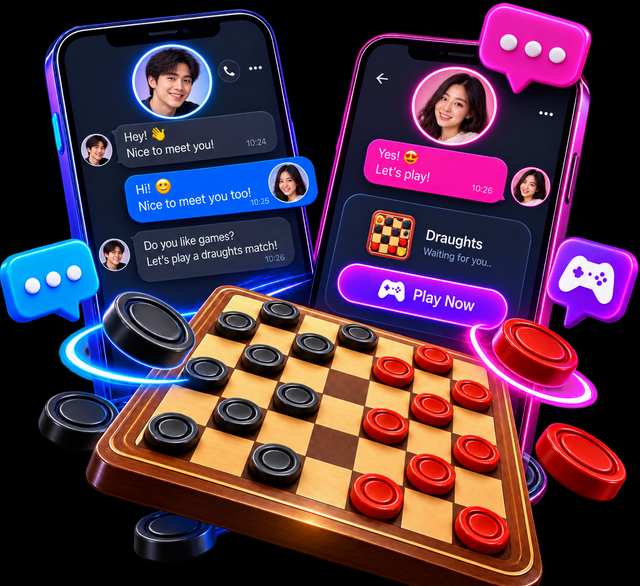
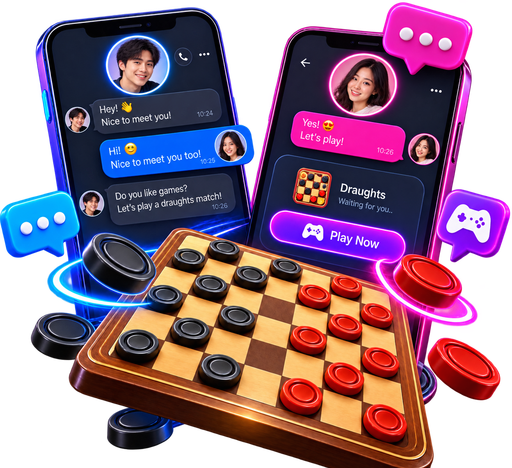
Hero: new copy, and the artwork cycles between two renders
COPY. "Love meet brings social connections and games together in one place",
then the four verbs — Meet people. Chat. Play. Connect — set on their own
line rather than buried in the sentence. They are the whole product in four
words and inside a paragraph they read as filler.

CAROUSEL. The headline now claims two things at once, and neither render says
both: one is a room full of people playing, the other is a game running
inside a chat. So the hero shows both, five seconds apart.

A crossfade, not a slide. These are transparent PNGs with irregular edges,
and sliding one past the other exposes the page behind in a hard-edged
rectangle that the artwork does not have.

Three things it is careful about:

  It stops when the tab is hidden, rather than waking the CPU to swap images
  nobody is looking at.

  It does not auto-advance under prefers-reduced-motion. An unrequested
  change every few seconds is exactly what that setting exists to prevent;
  the dots still work, so nothing is lost.

  A slide whose file is missing is dropped rather than shown broken, and with
  only one left the dots and the timer do not appear at all.

The draughts render was replaced with the new casting and promoted from the
graphics grid to the second hero slide — it is not shown twice on one page.

diff --git a/src/components/HeroCarousel.tsx b/src/components/HeroCarousel.tsx
@@ -1,0 +1,129 @@
+import { useEffect, useRef, useState } from 'react'
+import { AnimatePresence, motion } from 'framer-motion'
+
+/**
+ * The hero artwork, cycling.
+ *
+ * Two renders that say different halves of the same thing — a room full of
+ * people playing, and a game running inside a chat. Neither one alone carries
+ * "social connections and games together in one place", which is what the
+ * headline now claims, so the hero shows both.
+ *
+ * A crossfade rather than a slide: these are transparent PNGs with irregular
+ * edges, and sliding one out past the other reveals the page behind them in a
+ * hard-edged rectangle. Fading has no edge to betray.
+ *
+ * Three things it is careful about:
+ *
+ *   It stops when the tab is hidden. An interval left running in a background
+ *   tab wakes the CPU to swap images nobody is looking at.
+ *
+ *   It respects prefers-reduced-motion by not auto-advancing at all. For
+ *   somebody with vestibular sensitivity an unrequested change every few
+ *   seconds is exactly the thing that setting exists to stop; the dots still
+ *   work, so no content is lost.
+ *
+ *   A slide whose file is missing is dropped rather than shown as a broken
+ *   image, and if only one survives the dots and the timer do not appear.
+ */
+type Slide = { src: string; alt: string }
+
+const SLIDES: Slide[] = [
+  {
+    src: '/shots/together.png',
+    alt: 'Friends chatting and playing a game together on Love meet',
+  },
+  {
+    src: '/shots/draughts.png',
+    alt: 'A game of draughts running inside a Love meet chat',
+  },
+]
+
+const INTERVAL_MS = 5000
+
+export default function HeroCarousel() {
+  const [ok, setOk] = useState<boolean[]>(() => SLIDES.map(() => true))
+  const [i, setI] = useState(0)
+  const [paused, setPaused] = useState(false)
+  const reduced = useRef(false)
+
+  useEffect(() => {
+    reduced.current =
+      typeof window !== 'undefined' &&
+      window.matchMedia?.('(prefers-reduced-motion: reduce)').matches === true
+  }, [])
+
+  const live = SLIDES.map((s, n) => ({ ...s, n })).filter((s) => ok[s.n])
+
+  useEffect(() => {
+    if (live.length < 2 || paused || reduced.current) return
+    const id = window.setInterval(() => {
+      if (document.visibilityState === 'hidden') return
+      setI((n) => (n + 1) % live.length)
+    }, INTERVAL_MS)
+    return () => window.clearInterval(id)
+  }, [live.length, paused])
+
+  // A slide failing to load can leave the index past the end of the list.
+  const index = live.length ? i % live.length : 0
+  const current = live[index]
+  if (!current) return null
+
+  return (
+    <div
+      className="relative aspect-[3/2] w-full max-w-[560px] mx-auto"
+      onMouseEnter={() => setPaused(true)}
+      onMouseLeave={() => setPaused(false)}
+    >
+      {/* A soft glow behind the artwork rather than a ring around it — these
+          renders have no rectangular edge to frame. */}
+      <div
+        aria-hidden
+        className="absolute inset-6 rounded-full opacity-40 blur-3xl"
+        style={{
+          background:
+            'linear-gradient(135deg, var(--color-rose), var(--color-magenta) 55%, var(--color-coral))',
+        }}
+      />
+
+      <div className="relative w-full h-full lm-float">
+        <AnimatePresence mode="wait">
+          <motion.img
+            key={current.src}
+            src={current.src}
+            alt={current.alt}
+            initial={{ opacity: 0, scale: 0.98 }}
+            animate={{ opacity: 1, scale: 1 }}
+            exit={{ opacity: 0, scale: 1.02 }}
+            transition={{ duration: 0.55, ease: [0.22, 1, 0.36, 1] }}
+            className="absolute inset-0 w-full h-full object-contain drop-shadow-2xl"
+            onError={() =>
+              setOk((prev) => {
+                const next = [...prev]
+                next[current.n] = false
+                return next
+              })
+            }
+          />
+        </AnimatePresence>
+      </div>
+
+      {live.length > 1 && (
+        <div className="absolute -bottom-2 inset-x-0 flex justify-center gap-2">
+          {live.map((s, n) => (
+            <button
+              key={s.src}
+              onClick={() => setI(n)}
+              aria-label={`Show image ${n + 1} of ${live.length}`}
+              aria-current={n === index}
+              className={[
+                'h-1.5 rounded-full transition-all',
+                n === index ? 'w-6 bg-rose' : 'w-1.5 bg-white/25 hover:bg-white/45',
+              ].join(' ')}
+            />
+          ))}
+        </div>
+      )}
+    </div>
+  )
+}

diff --git a/src/screens/LandingScreen.tsx b/src/screens/LandingScreen.tsx
@@ -13,6 +13,7 @@ import HowItWorks from '../components/HowItWorks'
 import SiteFooter from '../components/SiteFooter'
 import NothingToPerformFor from '../components/NothingToPerformFor'
 import SafeAndYours from '../components/SafeAndYours'
+import HeroCarousel from '../components/HeroCarousel'
 import StickyJoinBar from '../components/StickyJoinBar'
 import { TelegramLogo } from '../components/BrandIcons'
 import { HeartIcon } from '../components/FeedIcons'
@@ -176,8 +177,20 @@ export default function LandingScreen() {
             variants={rise}
             className="mt-4 text-base sm:text-lg text-ink-2 max-w-md mx-auto lg:mx-0 leading-relaxed"
           >
-            Meet people near you, match with someone who gets you, chat, send
-            gifts, and maybe find the one. It only takes a hello.
+            Love meet brings social connections and games together in one
+            place.
+          </motion.p>
+
+          {/* The four verbs, set apart from the sentence. They are the whole
+              product in four words, and buried in a paragraph they read as
+              filler rather than as a promise. */}
+          <motion.p
+            variants={rise}
+            className="mt-3 flex flex-wrap justify-center lg:justify-start gap-x-2 gap-y-1 text-base sm:text-lg font-extrabold"
+          >
+            {["Meet people.", "Chat.", "Play.", "Connect."].map((w, i) => (
+              <span key={w} className={i % 2 === 0 ? "text-ink" : "text-gradient-warm"}>{w}</span>
+            ))}
           </motion.p>
 
           {/* One destination, because there is only one. The app runs in
@@ -204,21 +217,7 @@ export default function LandingScreen() {
           variants={rise}
           className="relative order-1 lg:order-2 mx-auto w-full lg:max-w-none"
         >
-          <div className="relative aspect-[3/2] w-full max-w-[560px] mx-auto lm-float">
-            {/* A soft glow behind the artwork rather than a ring around it —
-                the render has no rectangular edge to frame. */}
-            <div
-              aria-hidden
-              className="absolute inset-6 rounded-full opacity-40 blur-3xl"
-              style={{ background: 'linear-gradient(135deg, var(--color-rose), var(--color-magenta) 55%, var(--color-coral))' }}
-            />
-            <img
-              src="/shots/together.png"
-              alt="Friends chatting and playing a game together on Love meet"
-              className="relative w-full h-full object-contain drop-shadow-2xl"
-            />
-
-          </div>
+          <HeroCarousel />
         </motion.div>
       </motion.div>
     </section>

diff --git a/src/components/WhatItIs.tsx b/src/components/WhatItIs.tsx
@@ -170,7 +170,6 @@ export default function WhatItIs() {
             { src: "/shots/coins.png", alt: "Coins on Love meet" },
             { src: "/shots/gifts.png", alt: "Sending a gift" },
             { src: "/shots/friends.png", alt: "Two profiles on each other's friends list" },
-            { src: "/shots/draughts.png", alt: "A game of draughts inside a chat" },
           ].map((g) => (
             <motion.img
               key={g.src}
